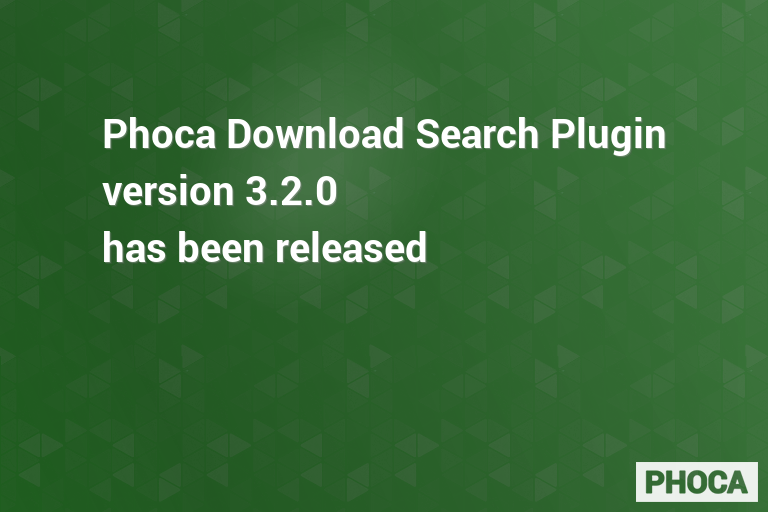
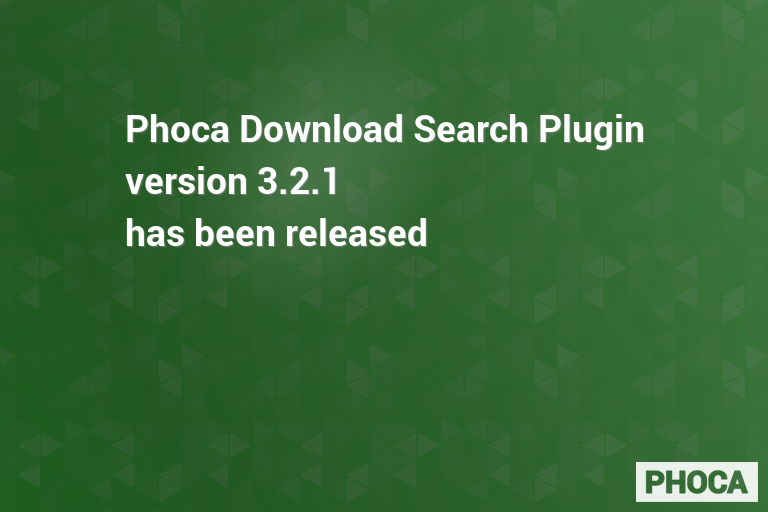
3.2.1
3.2.1

Changed region(s): [[0.125, 0.2188, 0.875, 0.5312]]

diff --git a/README.MD b/README.MD
@@ -54,7 +54,7 @@ Phoca Download Search Plugin is a Joomla! plugin which allows you to search for 
 
 ## Version
 
-3.2.0
+3.2.1
 
 
 
